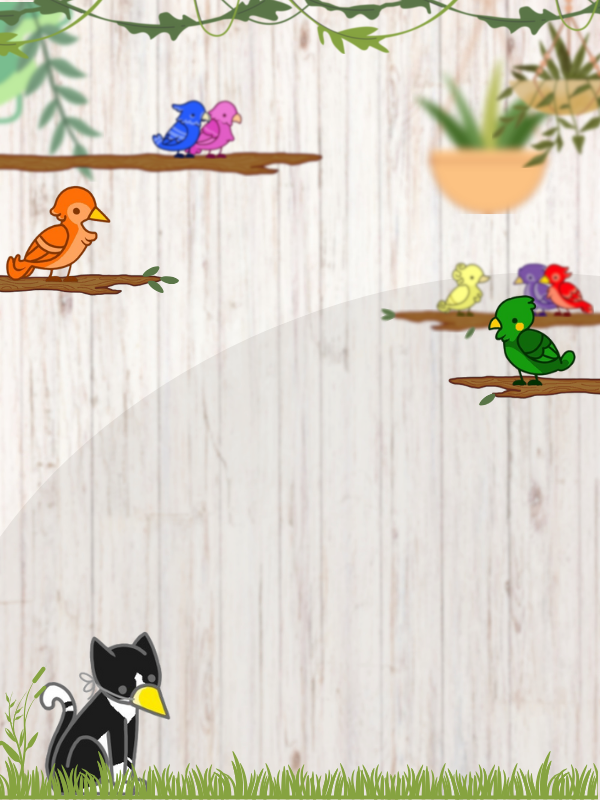
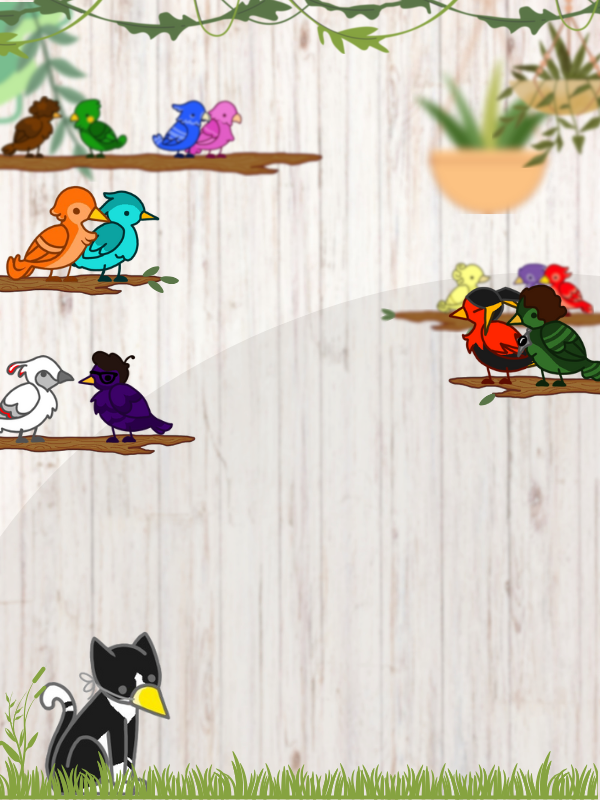
new birdies and bkg

diff --git a/game.py b/game.py
@@ -24,7 +24,7 @@ class BirdSortGame:
     
         num_colors, num_branches = get_difficulty_settings(self.difficulty)
 
-        self.bird_colors = random.sample(["red", "green", "blue", "yellow", "orange", "purple", "pink"], num_colors)
+        self.bird_colors = random.sample(["red", "green", "blue", "yellow", "orange", "purple", "pink", "white", "cian", "brown"], num_colors)
         self.bird_images = {}  # Store images to prevent garbage collection issues
 
         # Load branch images 
